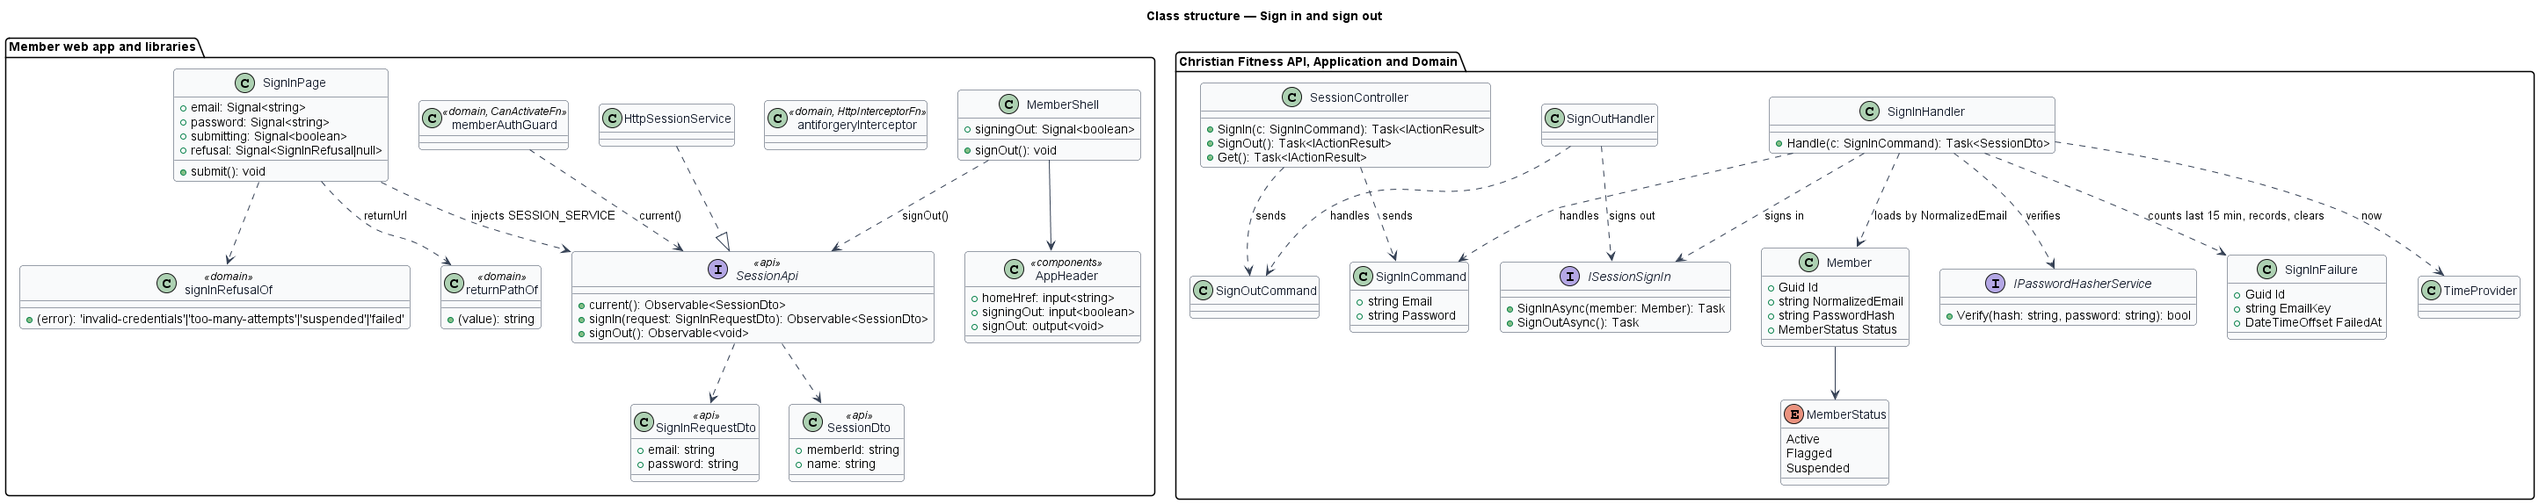
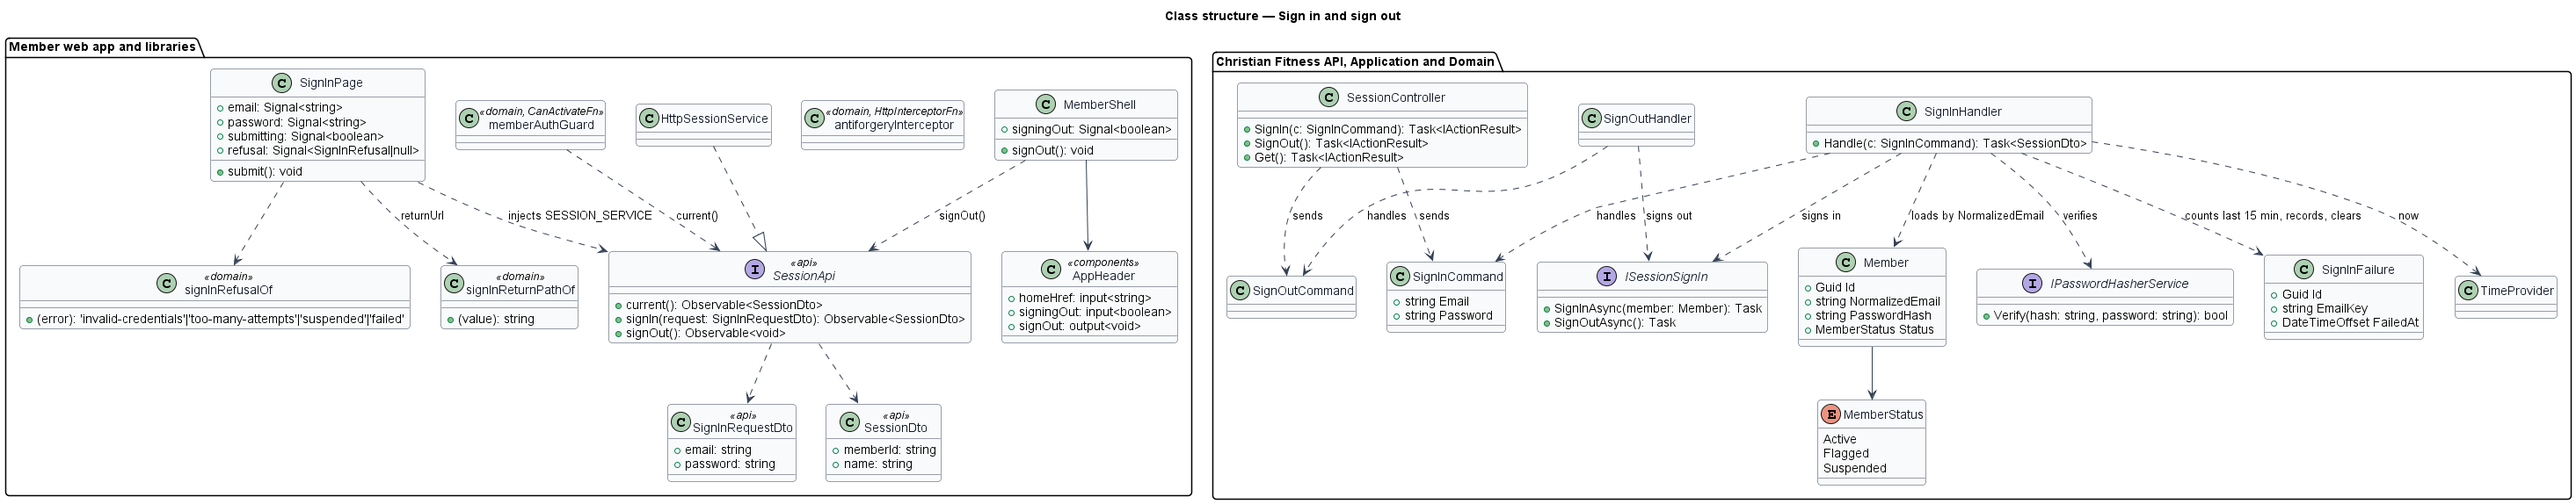
Link the paused sign-in message to Reset your password
Now that slice 20.1 serves /forgot-password, the paused alert ends with
"Reset your password", as the mock draws it (L2-004 AC3, mock
sign-in/error); FormAlert takes an optional link after its sentence, as
TextField does after an error, with a 44 px target on touch. The spec
failed first: the link was not found and the alert's sentence lacked it.
The sign-in docs now name signInReturnPathOf.

Claude-Session: https://claude.ai/code/session_01LjZiMqsjT8jL49Vuccb2Zr

diff --git a/frontend/e2e/web/sign-in-refusals.spec.ts b/frontend/e2e/web/sign-in-refusals.spec.ts
@@ -1,4 +1,5 @@
 import { expect, SIGNED_IN, test, type ApiHandlers, type ApiReply } from '../fixtures/test';
+import { WebForgotPasswordPage } from '../page-objects/web/forgot-password.page';
 import { WebHomePage } from '../page-objects/web/home.page';
 import { WebServerErrorPage } from '../page-objects/web/server-error.page';
 import { WebSignInPage } from '../page-objects/web/sign-in.page';
@@ -68,7 +69,7 @@ test.describe('Member app, sign-in refusals', () => {
     expect(sent()).toBe(2);
   });
 
-  // L2-004 AC3: 5 failures for the email in 15 minutes pause sign-in (mock `error`, ADR 0010).
+  // L2-004 AC3: 5 failures for the email in 15 minutes pause sign-in (mock `error`, ADR 0011).
   test('too many attempts show "Sign-in paused for 15 minutes" and keep the form', async ({
     page,
     api,
@@ -82,7 +83,7 @@ test.describe('Member app, sign-in refusals', () => {
 
     await expect(signIn.alertTitle).toHaveText('Sign-in paused for 15 minutes');
     await expect(signIn.alertText).toHaveText(
-      'Too many attempts, so we paused sign-in to keep your account safe.',
+      'Too many attempts, so we paused sign-in to keep your account safe. Reset your password',
     );
     await expect(signIn.alert).toHaveAttribute('role', 'alert');
     await expect(signIn.alert).toBeFocused();
@@ -98,7 +99,31 @@ test.describe('Member app, sign-in refusals', () => {
     expect(signIn.location()).toBe('/sign-in');
   });
 
-  // L2-004 AC4: a suspended member is told to contact the team (mock `suspended`, ADR 0010).
+  // L2-004 AC3 with L2-044 AC1: the paused member can get back in now by resetting their password
+  // (mock `error`).
+  test('"Reset your password" in the paused message opens Forgot password, by keyboard', async ({
+    page,
+    api,
+  }) => {
+    answerSignIn(api, problem(429, 'too_many_attempts'));
+    const signIn = new WebSignInPage(page);
+    const forgot = new WebForgotPasswordPage(page);
+
+    await signIn.open();
+    await signIn.fill(EMAIL, PASSWORD);
+    await signIn.submitAndAwaitAnswer();
+    await expect(signIn.alert).toBeFocused();
+
+    await expect(signIn.resetLink).toHaveAttribute('href', '/forgot-password');
+    await page.keyboard.press('Tab');
+    await expect(signIn.resetLink).toBeFocused();
+    await page.keyboard.press('Enter');
+
+    await expect(forgot.heading).toHaveText('Reset your password');
+    expect(signIn.location()).toBe('/forgot-password');
+  });
+
+  // L2-004 AC4: a suspended member is told to contact the team (mock `suspended`, ADR 0011).
   test('a suspended account shows "Your account is suspended" with whom to contact', async ({
     page,
     api,

diff --git a/frontend/projects/components/src/form-alert/form-alert.ts b/frontend/projects/components/src/form-alert/form-alert.ts
@@ -10,9 +10,10 @@ export interface FormAlertItem {
 /**
  * The design system's form alert (docs/design-system/assets/components.css, "form-alert"): a
  * message above a form, with `role="alert"`, a title and either a sentence (`text`) or, as an
- * error summary, one link per field to fix (`items`). It takes focus when it appears, so it is
- * read at once; a link moves focus to its field without leaving the page. Text is rendered as
- * text.
+ * error summary, one link per field to fix (`items`). The sentence may end with a link to another
+ * screen (`link`, `linkHref`), as a field's error does. It takes focus when it appears, so it is
+ * read at once; a summary's link moves focus to its field without leaving the page. Text is
+ * rendered as text.
  */
 @Component({
   selector: 'cf-form-alert',
@@ -22,6 +23,9 @@ export interface FormAlertItem {
 export class FormAlert implements AfterViewInit {
   readonly heading = input.required<string>();
   readonly text = input<string>();
+  /** A link after the sentence, and where it goes. */
+  readonly link = input<string>();
+  readonly linkHref = input<string>();
   readonly items = input<readonly FormAlertItem[]>([]);
 
   private readonly host: ElementRef<HTMLElement> = inject(ElementRef);

diff --git a/docs/mocks/pages/sign-in/error.html b/docs/mocks/pages/sign-in/error.html
@@ -30,7 +30,7 @@
       <p class="auth__lead">Sign in to see your events and messages.</p>
       <div class="auth__alert"><div class="form-alert" role="alert" tabindex="-1" autofocus>
   <svg class="icon" viewBox="0 0 24 24" aria-hidden="true"><circle cx="12" cy="12" r="10"/><line x1="12" x2="12" y1="8" y2="12"/><line x1="12" x2="12.01" y1="16" y2="16"/></svg>
-  <div><p class="form-alert__title">Sign-in paused for 15 minutes</p><p>Too many attempts, so we paused sign-in to keep your account safe. <a class="inline-link" href="../../pages/forgot-password/default.html">Reset your password</a> to get back in now.</p></div>
+  <div><p class="form-alert__title">Sign-in paused for 15 minutes</p><p>Too many attempts, so we paused sign-in to keep your account safe. <a class="inline-link" href="../../pages/forgot-password/default.html">Reset your password</a></p></div>
 </div></div>
       <div class="auth__fields">
         <div class="field"><label class="field__label" for="f-email">Email</label><input class="input" id="f-email" name="email" type="email" value="grace.thompson@gmail.com" autocomplete="email"></div>

diff --git a/frontend/e2e/page-objects/web/sign-in.page.ts b/frontend/e2e/page-objects/web/sign-in.page.ts
@@ -25,6 +25,8 @@ export class WebSignInPage {
   readonly links: Locator;
   /** "Forgot your password?" under the password field. */
   readonly forgotLink: Locator;
+  /** "Reset your password" in the alert that says sign-in is paused. */
+  readonly resetLink: Locator;
 
   constructor(private readonly page: Page) {
     this.main = page.getByRole('main');
@@ -42,6 +44,7 @@ export class WebSignInPage {
     this.alertText = this.alert.locator('.form-alert__title + p');
     this.links = this.form.getByRole('link');
     this.forgotLink = this.form.getByRole('link', { name: 'Forgot your password?' });
+    this.resetLink = this.alert.getByRole('link', { name: 'Reset your password' });
   }
 
   /** Opens the screen; with `returnUrl`, as a link that asks to return there after signing in. */

diff --git a/frontend/projects/components/src/form-alert/form-alert.scss b/frontend/projects/components/src/form-alert/form-alert.scss
@@ -28,6 +28,12 @@
   font-size: var(--font-size-md);
 }
 
+.inline-link {
+  text-decoration: underline;
+  text-underline-offset: var(--space-0-5);
+  font-weight: var(--font-weight-semibold);
+}
+
 .form-alert__list {
   margin-top: var(--space-1);
 
@@ -40,7 +46,8 @@
 
 // Touch: each link of the summary is a 44 px tall target; the lines stand apart to make room.
 @media (pointer: coarse) {
-  .form-alert__list a {
+  .form-alert__list a,
+  .inline-link {
     display: inline-flex;
     align-items: center;
     min-height: var(--target-comfortable);

diff --git a/frontend/projects/web/src/app/pages/sign-in/sign-in-page.html b/frontend/projects/web/src/app/pages/sign-in/sign-in-page.html
@@ -13,11 +13,12 @@
       text="Check both and try again."
     />
   } @else if (refusal() === 'too-many-attempts') {
-    <!-- "Reset your password" waits for the screen it opens (journey 20, ADR 0010). -->
     <cf-form-alert
       slot="alert"
       heading="Sign-in paused for 15 minutes"
       text="Too many attempts, so we paused sign-in to keep your account safe."
+      link="Reset your password"
+      linkHref="/forgot-password"
     />
   } @else if (refusal() === 'suspended') {
     <cf-form-alert

diff --git a/frontend/projects/components/src/form-alert/form-alert.html b/frontend/projects/components/src/form-alert/form-alert.html
@@ -7,7 +7,12 @@
   <div>
     <p class="form-alert__title">{{ heading() }}</p>
     @if (text(); as sentence) {
-      <p>{{ sentence }}</p>
+      <p>
+        {{ sentence }}
+        @if (link(); as label) {
+          <a class="inline-link" [href]="linkHref()">{{ label }}</a>
+        }
+      </p>
     }
     @if (items().length) {
       <ul class="form-alert__list">

diff --git a/docs/mocks/tools/screens_member.py b/docs/mocks/tools/screens_member.py
@@ -253,7 +253,7 @@ def signin_form(*, invalid: bool = False, busy: bool = False, locked: bool = Fal
         # L2-004 AC3. The button stays enabled: the pause is the server's, per email (ADR 0011).
         alert = '<div class="auth__alert">' + form_alert(
             "Sign-in paused for 15 minutes",
-            f'Too many attempts, so we paused sign-in to keep your account safe. <a class="inline-link" href="{href("forgot-password")}">Reset your password</a> to get back in now.') + "</div>"
+            f'Too many attempts, so we paused sign-in to keep your account safe. <a class="inline-link" href="{href("forgot-password")}">Reset your password</a>') + "</div>"
     if suspended:
         # L2-004 AC4: shown only once the right password was given (ADR 0011).
         alert = '<div class="auth__alert">' + form_alert(

diff --git a/docs/adr/0011-sign-in-protections.md b/docs/adr/0011-sign-in-protections.md
@@ -53,11 +53,13 @@ accounts. Staff suspend members in slice 27.1; until then only the tests make a 
   who corrects a mistyped email, and could only be enabled again by a timer the screen does not
   need. The `sign-in/error` mock was changed to match, and its alert now takes focus as every
   other refusal does.
-- **"Reset your password" is left out of the paused alert until journey 20** builds the screen it
-  opens, as ADR 0009 left out "Forgot your password?"; the mock keeps both links.
+- **"Reset your password" ends the paused alert** and opens `/forgot-password`, the screen slice
+  20.1 built, so a paused member can get back in without waiting. `FormAlert` gains an optional
+  link after its sentence (`link`, `linkHref`), as `TextField` has after an error; the mock's
+  trailing "to get back in now" was dropped so that the link ends the sentence.
 - **The return address.** `memberAuthGuard` redirects a visitor to
   `/sign-in?returnUrl=<the URL asked for>`. `SignInPage` reads `returnUrl` once from the route
-  snapshot and passes it through `returnPathOf` (`domain`): only a path inside the app is followed
+  snapshot and passes it through `signInReturnPathOf` (`domain`): only a path inside the app is followed
   (one leading `/`, not `//`, no `\`, no control character, not `/sign-in` again); anything else,
   or nothing, opens `/home`. A crafted link to sign in therefore cannot send a member to another
   site after they sign in (an open redirect). L2-004 AC6 now says so.

diff --git a/docs/detailed-designs/member-access/sign-in-and-out/README.md b/docs/detailed-designs/member-access/sign-in-and-out/README.md
@@ -27,13 +27,14 @@ route first asked for ([ADR 0011](../../../adr/0011-sign-in-protections.md)).
   `field`, `input` and `form-alert` blocks, with one signal per field. While the
   request is on its way the button reads "Signing in…", is disabled and busy, and the
   fields are read-only. Success navigates to the `returnUrl` query parameter the guard
-  set, read once from the route snapshot and checked by `returnPathOf` (`domain`): a
+  set, read once from the route snapshot and checked by `signInReturnPathOf` (`domain`): a
   path inside the app (one leading `/`, no `//`, no `\`, no control character, not
   `/sign-in` itself) is followed, anything else, or none, opens `/home` (L2-004 AC1,
   AC6). `signInRefusalOf` (`domain`) turns the `ApiError` into what the screen shows,
   each as a `form-alert` that takes focus, with no field marked invalid:
   - 401 `invalid_credentials` — "Email or password is incorrect" (L2-004 AC2, mock `invalid`);
-  - 429 `too_many_attempts` — "Sign-in paused for 15 minutes" (L2-004 AC3, mock `error`);
+  - 429 `too_many_attempts` — "Sign-in paused for 15 minutes", ending with the link "Reset your
+    password" (L2-004 AC3, mock `error`);
   - 403 `account_suspended` — "Your account is suspended", with a sentence to contact the
     team (L2-004 AC4, mock `suspended`);
   - anything else — "We couldn't sign you in" (mock `failed`).

diff --git a/docs/videos/08-slice-3-2-sign-in-protections/README.md b/docs/videos/08-slice-3-2-sign-in-protections/README.md
@@ -53,8 +53,7 @@ act the cuts are hard.
   stored as a SHA-256 of the email and pruned as the window passes, attempts during the pause not
   lengthening it, a suspended member's wrong password getting the generic answer, refused joins
   not counting towards the limit, the dark theme (shot, not shown) and
-  `ASPNETCORE_FORWARDEDHEADERS_ENABLED` for the proxy. "Reset your password" in the paused message
-  waits for journey 20.
+  `ASPNETCORE_FORWARDEDHEADERS_ENABLED` for the proxy.
 
 ## Build it again
 
